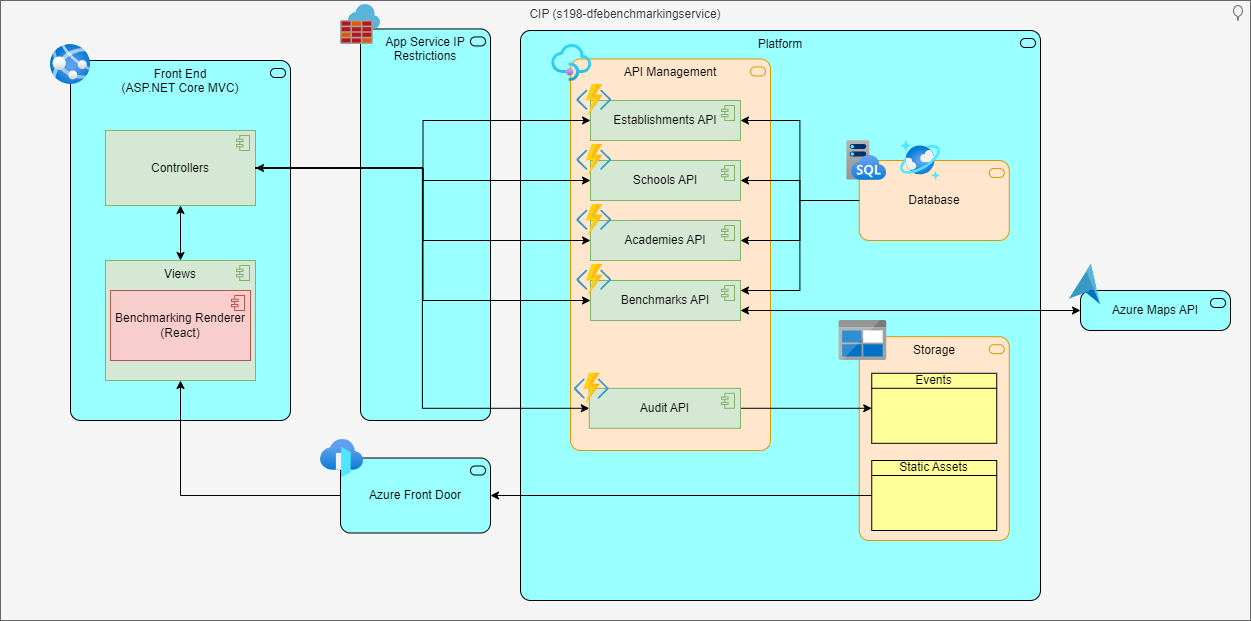
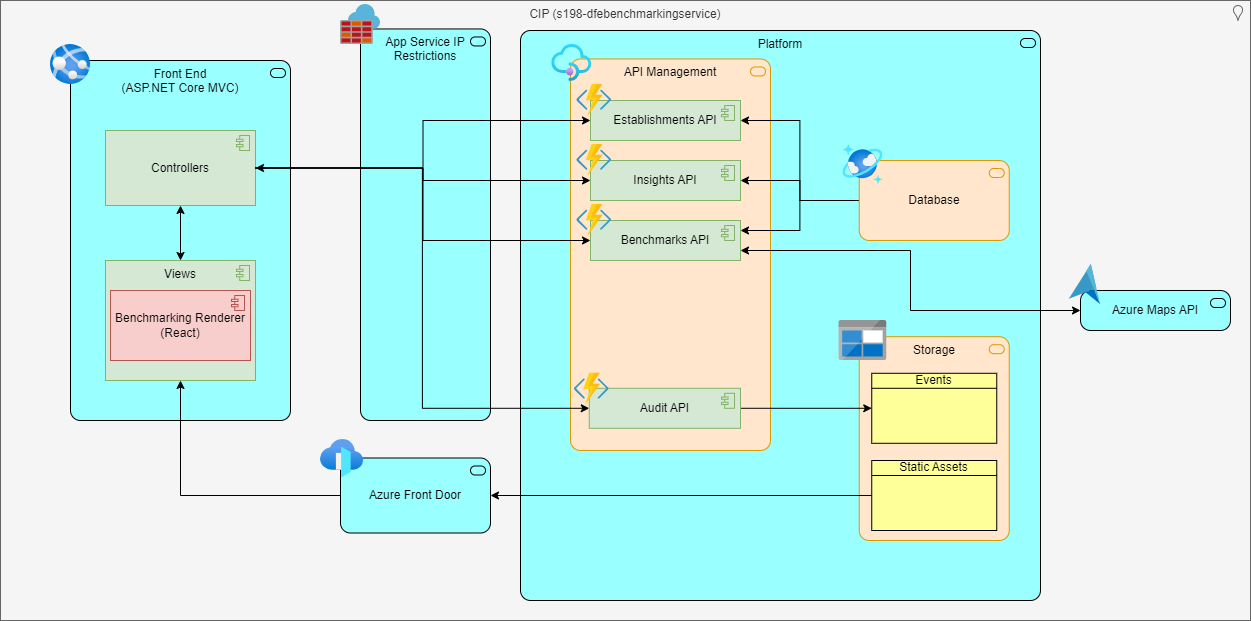
Updates decsions to DfE-preferred nomenclature. Updates architecture diagrams due to latest changes

diff --git a/documentation/architecture/achecitecture-decision-records/data-storage.md b/documentation/architecture/achecitecture-decision-records/data-storage.md
@@ -1,0 +1,33 @@
+# Data Storage
+
+## Context and Problem Statement
+
+Perhaps the most important decision of any service is how the data will be stored. The factors to be considered include:
+
+* Storage costs
+* Bandwidth costs
+* Suitability to the service usage
+* Ease of data ingestion 
+
+## Considered Options
+- Azure Cosmos DB, a fully-managed and distributed NoSQL database
+- Azure Managed SQL, a fully-managed and serverless distributed SQL database
+- Azure Blob Storage, an object storage solution
+- Azure Synapse, a Data Warehousing solution
+
+### Evaluation
+
+| Criteria | Comment | Cosmos DB | SQL | Blob Storage | Synapse | 
+|:--------:|:--------|:---------------:|:-----------:|:-----------:|
+| Suitability | The end data is very static. Once the benchmark and default comparator sets have been created, they do not change. The data is mainly non-relational | 4 | 3 | 3 | 3 |
+| Ease of Data Ingestion | As we will be creating the ETL pipeline as well, this criteria is less critical, although this include understanding of the current piupelines as well | 4 | 3 | 3 | 3 |
+| Storage Cost | We need to store 5 years' worth of data. Overall storage will be approximately 15MB for a parque  | 4 | 3 | 4 | 2 |
+|Total|| 12 | 9 | 10 | 8 |
+
+## Decision Outcome
+
+Based on the analysis above, we have chosen CosmosDB as the data storage medium for the project. An additional factor in the decision was that, as we were more confident in the current data structure and ingestion pipeline of the incumbent SFB solution, we can use the current SFB CosmosDB documents as the data source whilst we work on the Beta service.
+
+### Considerations on selected technology 
+
+During development, the CosmosDB will be provisioned using Provisioned Throughput (Autoscale) capacity mode. As the system evolves, this will be re-evaluated to determine if Serverless will provide a better combination of performance and cost-effectiveness.

diff --git a/documentation/architecture/achecitecture-decision-records/front-end-framework.md b/documentation/architecture/achecitecture-decision-records/front-end-framework.md
@@ -1,0 +1,24 @@
+# Front-end framework
+
+## Context and Proble mStatement
+
+For the new financial benchmarking system, there are several differnet frameworks and architectures that can be used to build the user-facing front end site. 
+
+## Considered Options
+- An .NET Core MVC site written in C#. 
+- A ReactJS site running on NodeJS. 
+- An .NET Core MVC site written in C#, consuming a ReactJS application as a package. 
+
+### Evaluation
+
+| Criteria | Comment | Tech choice 1 | Tech choice 2 | Tech Choice 3 |
+|:--------:|:--------|:---------------:|:-----------:|:-----------:|
+| Team Knowledge | There are developers in the team that have knowledge of both technologies.  | 3 | 3 | 3|
+| Ease of Deployment | MVC offers easier deployment as .NET Core can be run natively on Windows & Linux, whereas pure ReactJS requires a container | 4 | 2 | 4 |
+| Security | MVC is able to act as a proxy for DfE Sign-IN, allowing authentication to be passed to server-side functions | 4 | 2 | 4 |
+| User Experience | ReactJS gives a rich, interactive experience that is more difficult to reproduce using standard C# views | 2 | 4 | 4 |
+| **Total** || **13** | **11** | **15** |
+
+## Decision Outcome
+
+Based on the analysis above, a front-end consisting of a .NET Core MVC Web application, hosting a React application, will be used. This gives the best combination of user experience, ease of deployment and security that is needed.

diff --git a/documentation/architecture/achecitecture-decision-records/decision-option-template.md b/documentation/architecture/achecitecture-decision-records/decision-option-template.md
@@ -1,21 +1,23 @@
-# Decision - template
+# Decision Title
 
-## Introduction
+## Context and Problem Statement
 
-This document tracks each technical decision made, along with the rationale and alternatives considered (where applicable). The decision process is shown below:
+Describe the context of the decision that needs to be made 
 
 
-## Evaluation
+## Considered Options
+
+List the options that are being considered, and the evaluation of each (if required)
 
 | Criteria | Comment | Tech choice 1 | Tech choice 2 |
 |:--------:|:--------|:---------------:|:-----------:|
 | Criteria 1 | Some rationale on why the score | 4 | 5 |
 |Total||4|5|
 
-## Conclusion
+## Decision Outcome
 
-//TODO: Add a conclusion, summarising which technology will be selected and why
+Describe the chosen option and the rationale behind the decision
 
-## Considerations on selected technology 
+### Considerations on selected technology 
 
 //TODO: Add considerations specific to the domain and the selected technology. This might include things like how it will scale or be secured in the environment specfic to this project.
